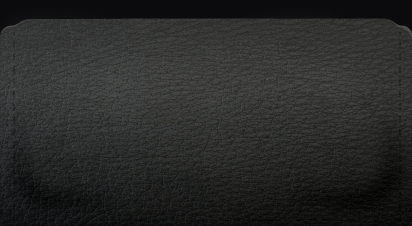
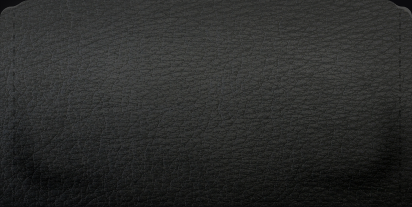
Wallet card: close the gap, ink the wordmark
The band under the card's tab was not spacing — Figma exported the leather
with 19 rows of page ground above it. Cropped off, the remaining 207 lands
exactly on the box floor: the pocket starts at 17.2% of 250, and 250 - 43
is 207, so it runs flush with no overhang.

The wordmark ships white, for dark grounds. On the brand-yellow face it
reads as a wash, so brightness-0 takes it to black and one asset still
serves both places.

Changed region(s): [[0.0, 0.0, 1.0, 0.1449]]

diff --git a/src/components/account/SevenpmCard.tsx b/src/components/account/SevenpmCard.tsx
@@ -57,22 +57,27 @@ export function SevenpmCard({
                 "linear-gradient(109.43deg, rgba(255,255,255,0) 31.99%, rgb(255,255,255) 50.37%, rgba(255,255,255,0) 68.76%)",
             }}
           />
+          {/* The wordmark ships white, for dark grounds. On the brand-yellow
+              card face it has to be the ink: `brightness-0` takes any colour
+              in the file to black, so one asset serves both. */}
           <Image
             src="/assets/wordmark.svg"
             alt="SEVENPM"
             width={1272}
             height={238}
-            className="absolute left-[5.9%] top-[7.9%] w-[31.2%]"
+            className="absolute left-[5.9%] top-[7.9%] w-[31.2%] brightness-0"
           />
         </span>
 
-        {/* The pocket. Its own ground is the page's, so it hides the card
-            exactly where the comp does. */}
+        {/* The pocket, whose top edge is where the card disappears into it.
+            The export carried 19 rows of page ground above the leather, which
+            read as a gap under the card's tab; cropped, the remaining 207
+            lands exactly on the box's floor (250 - 17.2% of 250). */}
         <Image
           src="/assets/wallet-leather.png"
           alt=""
           width={412}
-          height={226}
+          height={207}
           aria-hidden
           className="absolute inset-x-0 top-[17.2%] block w-full"
         />
